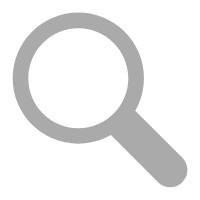
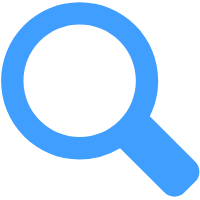
add the action that adding

diff --git a/src/components/taskList.vue b/src/components/taskList.vue
@@ -1,6 +1,10 @@
 <template>
   <div class="task_list">
-    <el-table stripe :data="tableData" style="width: calc(100% - 40px); height:100%;">
+    <div class="task_list_operator">
+      <img src="@/assets/images/add.png" @click="createTask()">
+      <img src="@/assets/images/search.png" @click="searchTask()">
+    </div>
+    <el-table stripe :data="tableData" style="width: calc(100% - 40px);" height="calc(100% - 110px  )">
       <el-table-column type="expand">
         <template slot-scope="props">
           <el-input style="width: calc(100% - 140px);margin-left: 100px;" type="textarea" v-model="props.row.remarks" :autosize=true></el-input>
@@ -11,7 +15,7 @@
           <el-checkbox :checked="Boolean(scope.row.status)" @change="taskStatusChange($event, scope.$index)"></el-checkbox>
         </template>
       </el-table-column>
-      <el-table-column prop="description" label="任务描述">
+      <el-table-column prop="description" label="任务描述" min-width="300">
       </el-table-column>
       <el-table-column prop="creatTime" label="创建时间" width="300">
       </el-table-column>
@@ -50,6 +54,7 @@ export default {
       activeDes: '',
       isDisableToSave: true,
       emptyTextError: false,
+      isCreateTask: false,
       tableData: [
         {
           creatTime: '2016-05-03',
@@ -106,10 +111,14 @@ export default {
     },
     // 弹出框文本发生变化时，更改save按钮的状态
     textChange: function () {
+      let descriptionOrg = ''
+      if (this.tableData[this.activeTaskIndex]) {
+        descriptionOrg = this.tableData[this.activeTaskIndex].description
+      }
       if (this.activeDes === '') {
         this.isDisableToSave = true
         this.emptyTextError = true
-      } else if (this.activeDes !== this.tableData[this.activeTaskIndex].description) {
+      } else if (this.activeDes !== descriptionOrg) {
         this.isDisableToSave = false
         this.emptyTextError = false
       } else {
@@ -127,6 +136,25 @@ export default {
     closeDialog: function () {
       this.isDisableToSave = true
       this.emptyTextError = false
+      if (this.isCreateTask === true) {
+        this.isCreateTask = false
+        let currentTime = new Date()
+        this.tableData.push({
+          creatTime: currentTime,
+          description: this.activeDes,
+          status: 0,
+          remarks: ''
+        })
+      } else {
+        this.tableData[this.activeTaskIndex].description = this.activeDes
+      }
+    },
+    createTask: function () {
+      this.isCreateTask = true
+      this.dialogVisible = true
+      this.activeDes = ''
+    },
+    searchTask: function () {
     }
   }
 }
@@ -155,5 +183,22 @@ export default {
   }
   .empty_text {
     border: 1px solid red;
+  }
+  .task_list_operator {
+    display: flex;
+    flex-direction: row;
+    justify-content: flex-start;
+    align-items: center;
+    width: calc(100% - 40px);
+    height: 60px;
+    padding-left: 20px;
+    box-sizing: border-box;
+  }
+  .task_list_operator img {
+    height: 30px;
+    cursor: pointer;
+  }
+  .task_list_operator img+img {
+    margin-left: 30px;
   }
 </style>
